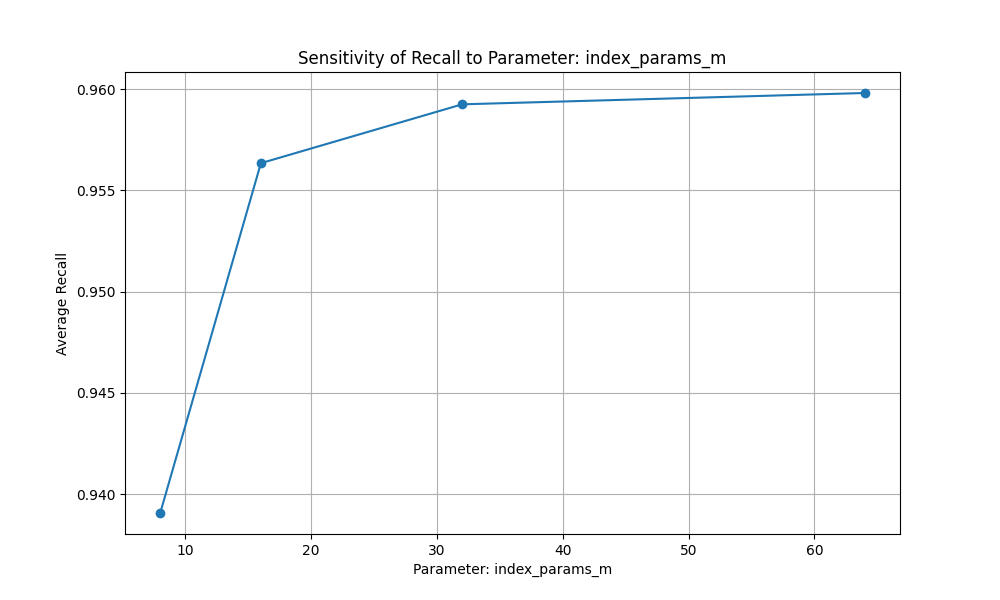
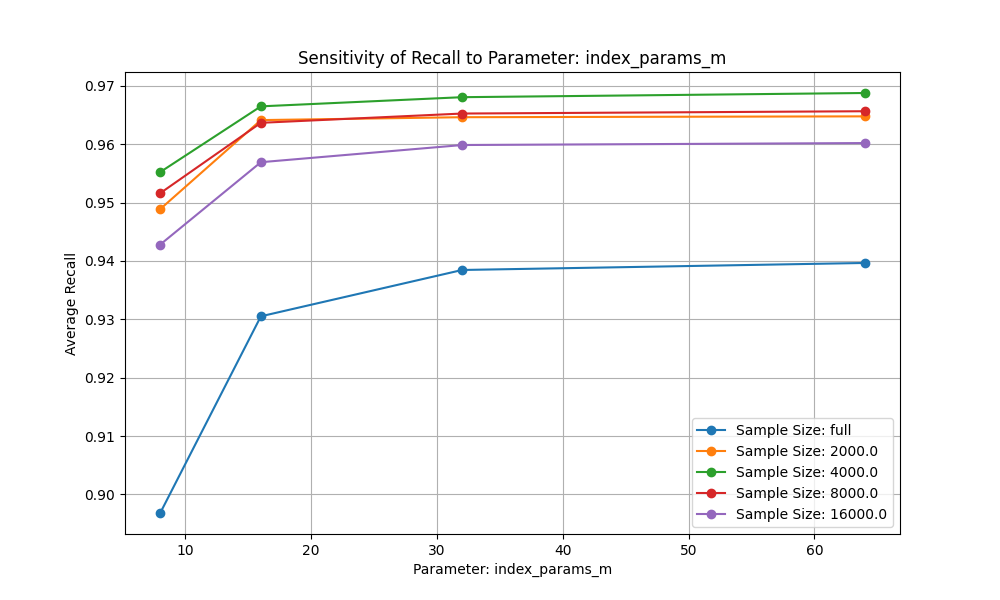
Variation analysis

diff --git a/src/recall_estimation/experiments.py b/src/recall_estimation/experiments.py
@@ -550,9 +550,43 @@ def _diskbbq_filter(df: pd.DataFrame, source: str | None = None) -> pd.DataFrame
                   (df["source"] == source)]
     return df[(df["index_params_type"] == "bbq_disk")]
 
+def _visualize_recall_distribution(results: pd.DataFrame, figure_index: int) -> int:
+    """Visualizes the distribution of recall estimates for different sample sizes
+    using kernel density estimation (KDE) plots broken down by index type.
+
+    :param results: The DataFrame containing the experiment results.
+    :param figure_index: The current figure index for plotting.
+    :return: The updated figure index after plotting.
+    """
+    from matplotlib import pyplot as plt
+    import seaborn as sns
+
+    fig = plt.figure(figure_index, figsize=(12, 15))
+    figure_index += 1
+    for i, (filter_results, label_) in enumerate([
+        (_hnsw_filter(results[results["sample_size"] == "full"]), "HNSW"),
+        (_flat_filter(results[results["sample_size"] == "full"]), "Flat"),
+        (_diskbbq_filter(results[results["sample_size"] == "full"]), "DiskBBQ"),
+    ]):
+        fig.add_subplot(3, 1, i + 1)
+        sns.kdeplot(
+            data=filter_results,
+            x="average_recall",
+            fill=True,
+            common_norm=False,
+            alpha=0.5
+        )
+        plt.xlabel("Average Recall")
+        plt.ylabel("Density")
+        plt.title(f"Recall Estimate Distribution by Sample Size ({label_})")
+    plt.savefig("results/recall_distribution.png")
+
+    return figure_index
+
 def _visualize_r2(results: pd.DataFrame, figure_index: int) -> int:
     """Visualizes the average R² between the recall estimate and the exact recall.
 
+    :param results: The DataFrame containing the experiment results.
     :param figure_index: The current figure index for plotting.
     :return: The updated figure index after plotting.
     """
@@ -692,6 +726,8 @@ def _visualize_sensitivity(results: pd.DataFrame, figure_index: int) -> int:
     """Visualizes the sensitivity of recall estimates to different parameters."""
     from matplotlib import pyplot as plt
 
+    unique_sample_sizes = [s for s in results["sample_size"].unique()]
+
     for param in [
         "index_params_m",
         "index_params_ef_construction",
@@ -701,27 +737,31 @@ def _visualize_sensitivity(results: pd.DataFrame, figure_index: int) -> int:
     ]:
         plt.figure(figure_index, figsize=(10, 6))
         figure_index += 1
-        pivot_results = results.pivot_table(
-            columns=param,
-            values="average_recall"
-        )
-        param_values = []
-        average_recalls = []
-        for col in pivot_results.columns:
-            if col == "n/a":
+        for sample_size in unique_sample_sizes:
+            filter_results = results[results["sample_size"] == sample_size]
+            pivot_results = filter_results.pivot_table(
+                columns=param,
+                values="average_recall"
+            )
+            param_values = []
+            average_recalls = []
+            for col in pivot_results.columns:
+                if col == "n/a":
+                    continue
+                param_values.append(col)
+                average_recalls.append(pivot_results[col].dropna().mean())
+
+            if not param_values:
+                print(f"No data available to plot sensitivity for parameter '{param}'")
                 continue
-            param_values.append(col)
-            average_recalls.append(pivot_results[col].dropna().mean())
 
-        if not param_values:
-            print(f"No data available to plot sensitivity for parameter '{param}'")
-            continue
-
-        plt.plot(param_values, average_recalls, marker='o')
+            plt.plot(param_values, average_recalls, marker='o',
+                     label=f"Sample Size: {sample_size}")
         plt.xlabel(f"Parameter: {param}")
         plt.ylabel("Average Recall")
         plt.title(f"Sensitivity of Recall to Parameter: {param}")
         plt.grid(True)
+        plt.legend()
         plt.savefig(f"results/recall_sensitivity_{param}.png")
     return figure_index
     
@@ -779,7 +819,8 @@ def main(fvec_file_name: str | None = None,
 
         all_results["sample_size"] = all_results["sample_size"].fillna("full")
         all_results = all_results.fillna("n/a")
-        figure_index = _visualize_r2(all_results, figure_index=1)
+        figure_index = _visualize_recall_distribution(all_results, figure_index=1)
+        figure_index = _visualize_r2(all_results, figure_index=figure_index)
         figure_index = _visualize_correlation(all_results, figure_index=figure_index)
         figure_index = _visualize_sensitivity(all_results, figure_index=figure_index)
         return
